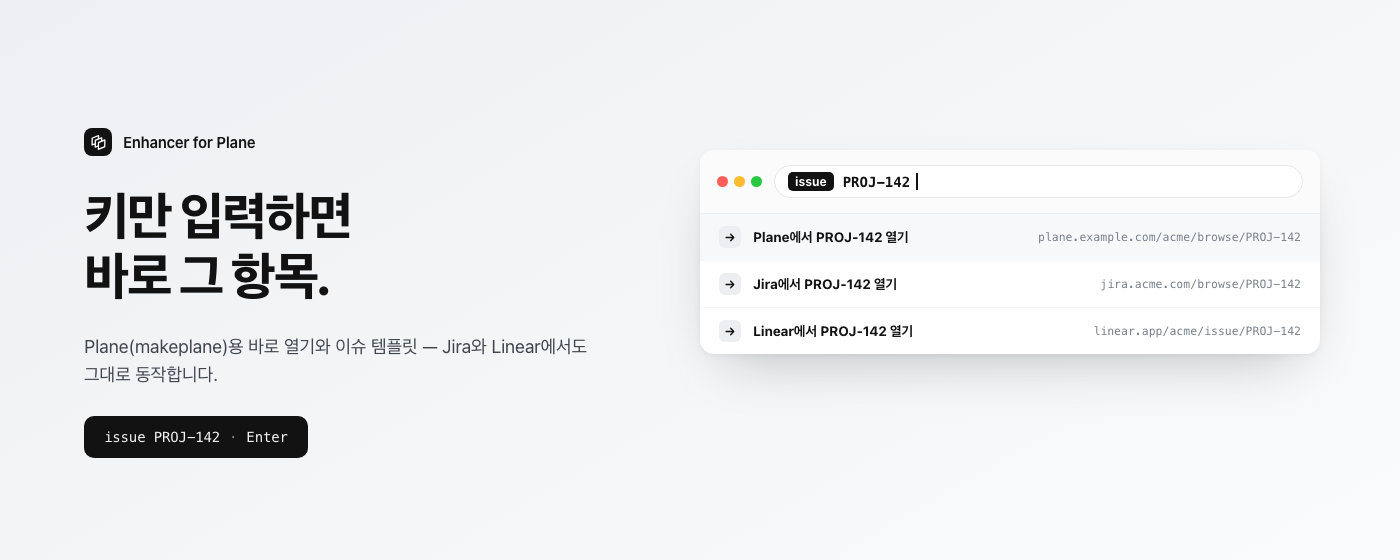
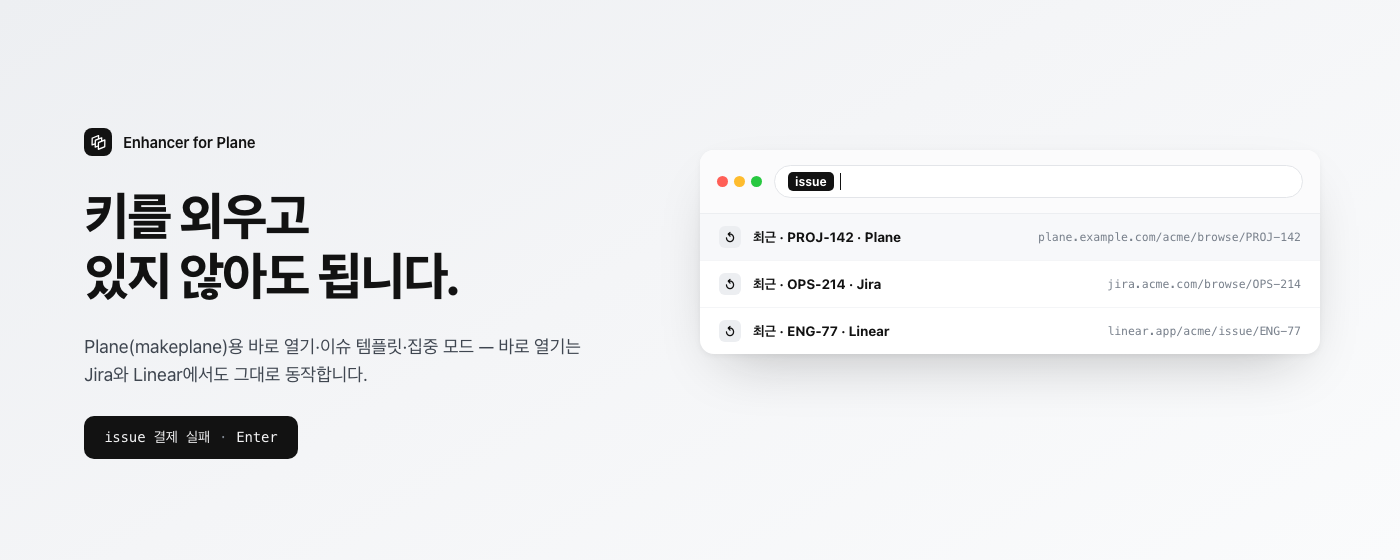
Fix the marquee too, and import the rules instead of linking them
The marquee is the capture's frame at 1400x560 and I updated one and not
the other, so the tile that goes at the top of the listing was still
advertising "Open PROJ-142 in Plane" — a string the extension stopped
saying — under a headline the capture no longer uses. It now shows the
recents the same way, and two hardcoded URLs that still read PROJ-142 under
rows labelled OPS-214 and ENG-77 were caught in the same pass. The pill
shows the search input rather than describing a frame that is not there.

CLAUDE.md is an import now. `@AGENTS.md` inlines the file into the session;
`[AGENTS.md](AGENTS.md)` was a link, which costs a tool call to follow and
depends on choosing to follow it. About 10k tokens a session, and worth it
here: this repo's whole method is that the reasoning is written down, and
that only pays if it is in front of whoever is working. Checked AGENTS.md
for stray @tokens first — an import is recursive, and a stray one would
quietly pull in a file nobody meant to load.

The remaining prose says not to copy rules into CLAUDE.md, because two
files that almost agree are how they start disagreeing.

diff --git a/store-assets/promo-marquee-1400x560.html b/store-assets/promo-marquee-1400x560.html
@@ -75,54 +75,56 @@
   <div class="brand"></div>
   <h1 data-t="head"></h1>
   <p class="lede" data-t="lede"></p>
-  <div class="pill">issue PROJ-142<span class="dot">·</span>Enter</div>
+  <div class="pill"><span data-t="pill"></span><span class="dot">·</span>Enter</div>
 </div>
 
 <div class="win">
   <div class="bar">
     <div class="omni">
       <span class="kw">issue</span>
-      <span class="typed">PROJ-142</span>
       <span class="caret"></span>
     </div>
   </div>
   <div class="sugg">
     <div class="row on">
-      <span class="go">→</span><span class="sname" data-t="s1"></span>
+      <span class="go">↺</span><span class="sname" data-t="s1"></span>
       <span class="surl">plane.example.com/acme/browse/PROJ-142</span>
     </div>
     <div class="row">
-      <span class="go">→</span><span class="sname" data-t="s2"></span>
-      <span class="surl">jira.acme.com/browse/PROJ-142</span>
+      <span class="go">↺</span><span class="sname" data-t="s2"></span>
+      <span class="surl">jira.acme.com/browse/OPS-214</span>
     </div>
     <div class="row">
-      <span class="go">→</span><span class="sname" data-t="s3"></span>
-      <span class="surl">linear.app/acme/issue/PROJ-142</span>
+      <span class="go">↺</span><span class="sname" data-t="s3"></span>
+      <span class="surl">linear.app/acme/issue/ENG-77</span>
     </div>
   </div>
 </div>
 
 <script>
   // A promo tile is read in a glance, so it carries the two features the name leads with
-  // and nothing else. The suggestion wording is omniboxOpen, as in the captures.
+  // and nothing else. The rows are omniboxRecent, as in capture 1 — a marquee that
+  // quotes a string the extension does not say is an advertisement for a different product.
   window.T = {
     en: {
-      head: "Type the key.<br />You are there.",
+      head: "You do not have to<br />remember the key.",
       lede:
-        "Quick open and issue templates for Plane (makeplane) — " +
-        "and for Jira and Linear alongside it.",
-      s1: "Open PROJ-142 in Plane",
-      s2: "Open PROJ-142 in Jira",
-      s3: "Open PROJ-142 in Linear"
+        "Quick open, issue templates and focus mode for Plane (makeplane) — " +
+        "and quick open works on Jira and Linear alongside it.",
+      pill: "issue checkout fails",
+      s1: "Recent · PROJ-142 · Plane",
+      s2: "Recent · OPS-214 · Jira",
+      s3: "Recent · ENG-77 · Linear"
     },
     ko: {
-      head: "키만 입력하면<br />바로 그 항목.",
+      head: "키를 외우고<br />있지 않아도 됩니다.",
       lede:
-        "Plane(makeplane)용 바로 열기와 이슈 템플릿 — " +
-        "Jira와 Linear에서도 그대로 동작합니다.",
-      s1: "Plane에서 PROJ-142 열기",
-      s2: "Jira에서 PROJ-142 열기",
-      s3: "Linear에서 PROJ-142 열기"
+        "Plane(makeplane)용 바로 열기·이슈 템플릿·집중 모드 — " +
+        "바로 열기는 Jira와 Linear에서도 그대로 동작합니다.",
+      pill: "issue 결제 실패",
+      s1: "최근 · PROJ-142 · Plane",
+      s2: "최근 · OPS-214 · Jira",
+      s3: "최근 · ENG-77 · Linear"
     }
   };
 </script>

diff --git a/CLAUDE.md b/CLAUDE.md
@@ -1,2 +1,12 @@
-See [AGENTS.md](AGENTS.md) — the rules for changing this repo live there, so every
-tool and contributor reads the same file.
+@AGENTS.md
+
+---
+
+The line above is an **import, not a link**. Claude Code inlines that file into the session,
+so the rules arrive with the task instead of waiting to be discovered — which is the whole
+difference between a rule that is followed and one that is merely available. A link cost a
+tool call to follow and, on the turns that mattered, did not get followed at all.
+
+Everything about changing this repo lives in AGENTS.md, and only there, so that every tool
+and every contributor reads the same file. Do not copy rules into this one: two files that
+say almost the same thing is how they start disagreeing.
